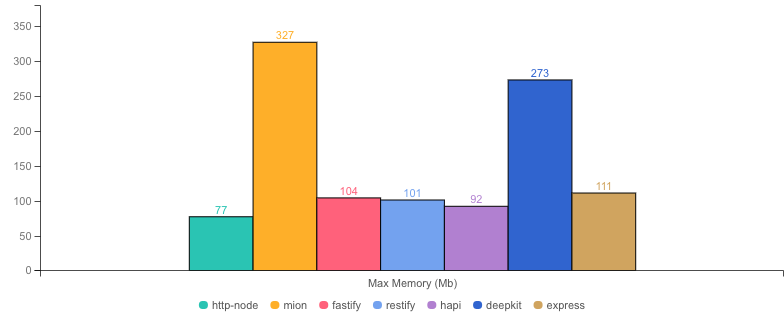
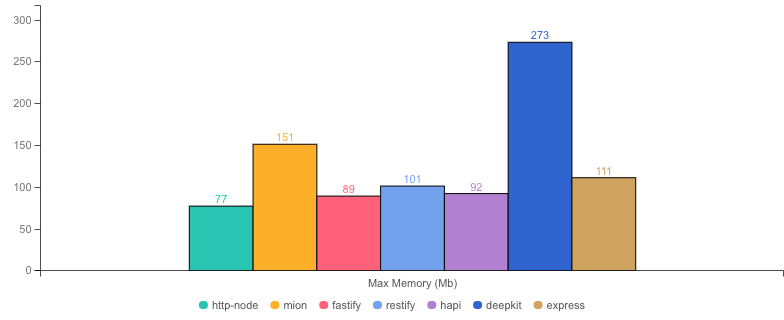
fix benhcmarks results

diff --git a/README.md b/README.md
@@ -95,37 +95,47 @@ This said it is the baseline memory which is a bit Higher (when the code gets lo
 
 ## Benchmark Results
 
-- **Machine:** darwin x64 | 8 vCPUs | 16.0GB Mem
-- **Node:** `v16.18.0`
-- **Run:** Thu Jul 20 2023 01:17:26 GMT+0100 (Irish Standard Time)
-- **Method:** `autocannon -c 100 -d 40.02 -p 10 localhost:3000` (two rounds; one to warm-up, one to measure)
+* __Machine:__ darwin x64 | 8 vCPUs | 16.0GB Mem
+* __Node:__ `v16.18.0`
+* __Run:__ Thu Jul 20 2023 09:47:27 GMT+0100 (Irish Standard Time)
+* __Method:__ `autocannon -c 100 -d 40.02 -p 10 localhost:3000` (two rounds; one to warm-up, one to measure)
 
-#### Req (R/s)
+#### Req (R/s) 
 
 ![benchmarks](assets/public/charts-servers/requests.png)
 
-#### Throughput (Mb/s)
+
+
+#### Throughput (Mb/s) 
 
 ![benchmarks](assets/public/charts-servers/throughput.png)
 
-#### Latency (ms)
+
+
+#### Latency (ms) 
 
 ![benchmarks](assets/public/charts-servers/latency.png)
 
-#### Max Memory (Mb)
+
+
+#### Max Memory (Mb) 
 
 ![benchmarks](assets/public/charts-servers/maxMem.png)
 
-#### Memory Series (MB)
+
+
+#### Memory Series (MB) 
 
 ![benchmarks](assets/public/charts-servers/memSeries.png)
 
-|           |        Version | Router |  Req (R/s)  | Latency (ms) | Output (Mb/s) | Max Memory (Mb) | Max Cpu (%) | Validation | Description                                                                                                |
-| :-------- | -------------: | -----: | :---------: | -----------: | ------------: | --------------: | ----------: | :--------: | :--------------------------------------------------------------------------------------------------------- |
-| http-node |        16.18.0 |      ✗ |   17437.7   |        56.82 |          4.46 |              77 |         119 |     ✗      | Super basic and completely useless bare http server, should be the theoretical upper limit in performance. |
-| **mion**  |      **0.1.0** |  **✓** | **15734.9** |   **746.43** |      **4.37** |         **327** |     **177** |   **✓**    | **validation and serialization out of the box**                                                            |
-| fastify   |         4.19.2 |      ✓ |   15243.3   |       715.61 |          3.91 |             104 |         109 |     -      | Validation is done using schemas and ajv. Schemas must be generated manually or using third party tools.   |
-| restify   |          8.6.1 |      ✓ |   11925.8   |        83.30 |          3.07 |             101 |         116 |     ✗      | Requires third party tools.                                                                                |
-| hapi      |         20.3.0 |      ✓ |   7736.8    |       128.58 |          1.98 |              92 |         125 |     ✗      | Manual validation using joi, or third party tools.                                                         |
-| deepkit   | 1.0.1-alpha.75 |      ✓ |   5358.6    |       185.78 |          1.37 |             273 |         142 |     ✓      | Automatic validation out of the box (The ones that made @deepkit/types), Their rpc is way more performant. |
-| express   |         4.18.2 |      ✓ |   4547.4    |       218.95 |          1.16 |             111 |         124 |     ✗      | needs third party tools, or third party tools                                                              |
+
+
+|           | Version        | Router | Req (R/s)   | Latency (ms) | Output (Mb/s) | Max Memory (Mb) | Max Cpu (%) | Validation | Description                                                                                                |
+| :--       | --:            | --:    | :-:         | --:          | --:           | --:             | --:         | :-:        | :--                                                                                                        |
+| http-node | 16.18.0        | ✗      | 17437.7     | 56.82        | 4.46          | 77              | 119         | ✗          | Super basic and completely useless bare http server, should be the theoretical upper limit in performance. |
+| **mion**  | **0.1.0**      | **✓**  | **15598.2** | **63.61**    | **4.33**      | **151**         | **145**     | **✓**      | **validation and serialization out of the box**                                                            |
+| fastify   | 4.19.2         | ✓      | 15414.2     | 64.36        | 3.95          | 89              | 128         | -          | Validation is done using schemas and ajv. Schemas must be generated manually or using third party tools.   |
+| restify   | 8.6.1          | ✓      | 11925.8     | 83.30        | 3.07          | 101             | 116         | ✗          | Requires third party tools.                                                                                |
+| hapi      | 20.3.0         | ✓      | 7736.8      | 128.58       | 1.98          | 92              | 125         | ✗          | Manual validation using joi, or third party tools.                                                         |
+| deepkit   | 1.0.1-alpha.75 | ✓      | 5358.6      | 185.78       | 1.37          | 273             | 142         | ✓          | Automatic validation out of the box (The ones that made @deepkit/types), Their rpc is way more performant. |
+| express   | 4.18.2         | ✓      | 4547.4      | 218.95       | 1.16          | 111             | 124         | ✗          | needs third party tools, or third party tools                                                              |
